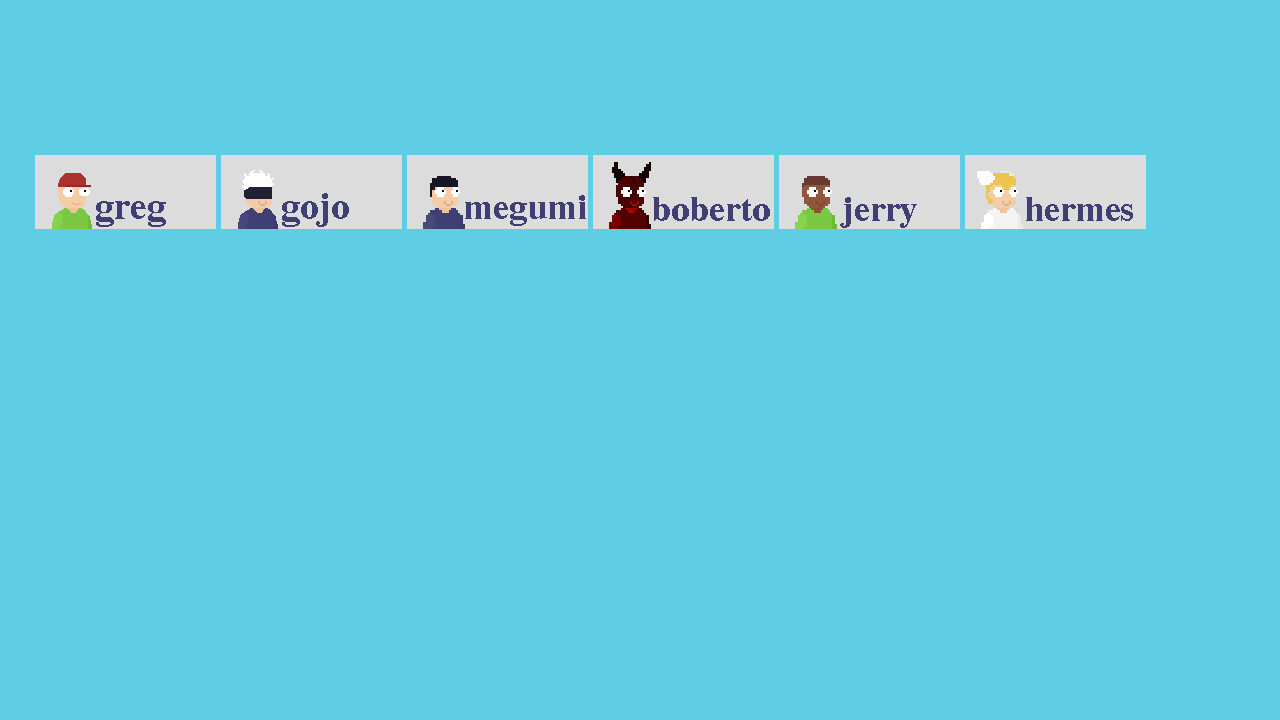
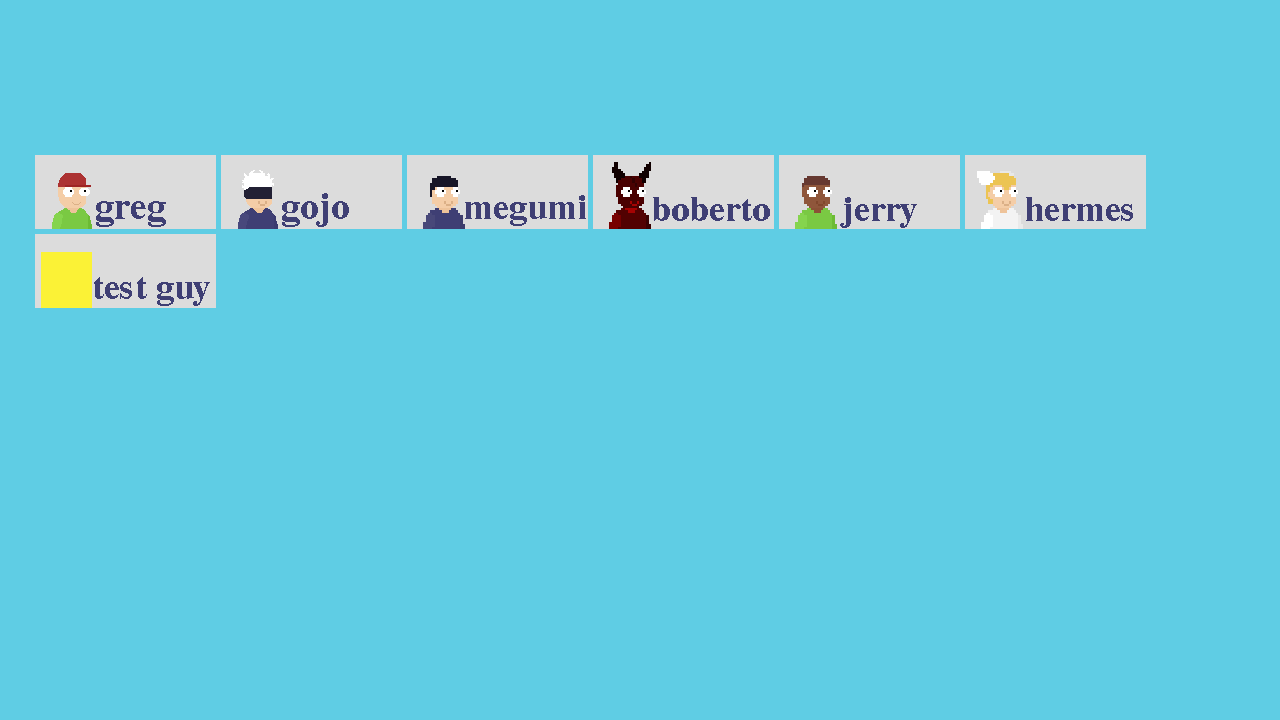
added back the cube guy

Changed region(s): [[0.0, 0.3056, 0.1875, 0.4278]]

diff --git a/players/player_info.go b/players/player_info.go
@@ -10,12 +10,13 @@ var Players map[string]Player
 
 func InitPlayer(spawn_point utils.Vec2) {
 	Players = map[string]Player{
-		"greg":    newPlayer(spawn_point, *textures.NewAnimatedTexture("./art/players/greg.png"), textures.NewTexture("./art/domains/simple_domain.png"), func(enemies []*enemyai.Enemy) { Player_Ref.simpleDomain(enemyai.Enemies_In_World) }, greg_attacks),
-		"gojo":    newPlayer(spawn_point, *textures.NewAnimatedTexture("./art/players/gojo.png"), textures.NewTexture("./art/domains/gojo_domain.png"), func(enemies []*enemyai.Enemy) { Player_Ref.gojoDomain(enemyai.Enemies_In_World) }, gojo_attacks),
-		"megumi":  newPlayer(spawn_point, *textures.NewAnimatedTexture("./art/players/megumi.png"), textures.NewTexture("./art/domains/megumi_domain.png"), func(enemies []*enemyai.Enemy) { Player_Ref.megumiDomain(enemyai.Enemies_In_World) }, megumi_attacks),
-		"boberto": newPlayer(spawn_point, *textures.NewAnimatedTexture("./art/players/boberto.png"), textures.NewTexture("./art/domains/boberto_domain.png"), func(enemies []*enemyai.Enemy) { Player_Ref.bobertoDomain(enemyai.Enemies_In_World) }, boberto_attacks),
-		"jerry":   newPlayer(spawn_point, *textures.NewAnimatedTexture("./art/players/jerry.png"), textures.NewTexture("./art/domains/simple_domain.png"), func(enemies []*enemyai.Enemy) { Player_Ref.simpleDomain(enemyai.Enemies_In_World) }, jerry_attacks),
-		"sukuna":  newPlayer(spawn_point, *textures.NewAnimatedTexture("./art/players/sukuna_playable.png"), textures.NewTexture("./art/domains/sukuna_domain.png"), func(enemies []*enemyai.Enemy) { Player_Ref.simpleDomain(enemyai.Enemies_In_World) }, sukuna_attacks),
-		"hermes":  newPlayer(spawn_point, *textures.NewAnimatedTexture("./art/players/hermes.png"), textures.NewTexture("./art/domains/simple_domain.png"), func(enemies []*enemyai.Enemy) { Player_Ref.simpleDomain(enemyai.Enemies_In_World) }, hermes_attacks),
+		"greg":        newPlayer(spawn_point, *textures.NewAnimatedTexture("./art/players/greg.png"), textures.NewTexture("./art/domains/simple_domain.png"), func(enemies []*enemyai.Enemy) { Player_Ref.simpleDomain(enemyai.Enemies_In_World) }, greg_attacks),
+		"gojo":        newPlayer(spawn_point, *textures.NewAnimatedTexture("./art/players/gojo.png"), textures.NewTexture("./art/domains/gojo_domain.png"), func(enemies []*enemyai.Enemy) { Player_Ref.gojoDomain(enemyai.Enemies_In_World) }, gojo_attacks),
+		"megumi":      newPlayer(spawn_point, *textures.NewAnimatedTexture("./art/players/megumi.png"), textures.NewTexture("./art/domains/megumi_domain.png"), func(enemies []*enemyai.Enemy) { Player_Ref.megumiDomain(enemyai.Enemies_In_World) }, megumi_attacks),
+		"boberto":     newPlayer(spawn_point, *textures.NewAnimatedTexture("./art/players/boberto.png"), textures.NewTexture("./art/domains/boberto_domain.png"), func(enemies []*enemyai.Enemy) { Player_Ref.bobertoDomain(enemyai.Enemies_In_World) }, boberto_attacks),
+		"jerry":       newPlayer(spawn_point, *textures.NewAnimatedTexture("./art/players/jerry.png"), textures.NewTexture("./art/domains/simple_domain.png"), func(enemies []*enemyai.Enemy) { Player_Ref.simpleDomain(enemyai.Enemies_In_World) }, jerry_attacks),
+		"sukuna":      newPlayer(spawn_point, *textures.NewAnimatedTexture("./art/players/sukuna_playable.png"), textures.NewTexture("./art/domains/sukuna_domain.png"), func(enemies []*enemyai.Enemy) { Player_Ref.simpleDomain(enemyai.Enemies_In_World) }, sukuna_attacks),
+		"hermes":      newPlayer(spawn_point, *textures.NewAnimatedTexture("./art/players/hermes.png"), textures.NewTexture("./art/domains/simple_domain.png"), func(enemies []*enemyai.Enemy) { Player_Ref.simpleDomain(enemyai.Enemies_In_World) }, hermes_attacks),
+		"test_player": newPlayer(spawn_point, *textures.NewAnimatedTexture("./art/players/test_player.png"), textures.NewTexture("./art/domains/simple_domain.png"), func(enemies []*enemyai.Enemy) { Player_Ref.simpleDomain(enemyai.Enemies_In_World) }, test_player_attacks),
 	}
 }

diff --git a/players/hermes.go b/players/hermes.go
@@ -8,7 +8,7 @@ import (
 
 func (p *Player) hermesJump() {
 	p.Vel.Y = -7
-	p.NewProjectile(p.Pos, utils.Vec2{X: 0, Y: 0}, 3, 0, 2, 3, textures.NewAnimatedTexture("./art/projectiles/hermes/cloud_jump.png"))
+	p.NewProjectile(utils.Vec2{X: p.Pos.X - 64, Y: p.Pos.Y + 32}, utils.Vec2{X: 0, Y: 0}, 10, 0, 1, 3, textures.NewAnimatedTexture("./art/projectiles/hermes/cloud_jump.png"))
 }
 
 func (p *Player) hermesTornado() {
@@ -16,7 +16,7 @@ func (p *Player) hermesTornado() {
 }
 
 func (player *Player) hermesWindBall() {
-	player.NewProjectile(utils.Vec2{X: player.Pos.X, Y: player.Pos.Y}, utils.Vec2{X: player.Pos.X + (player.Vel.X * 2) - utils.Mouse_X - camera.Cam.Offset.X + 640 + (float64(player.Img.GetTexture().Bounds().Dx())), Y: player.Pos.Y + (player.Vel.Y * 2) - utils.Mouse_Y - camera.Cam.Offset.Y + 320 + (float64(player.Img.GetTexture().Bounds().Dy()))}, 1, 10, 1, -1, textures.NewTexture("./art/projectiles/hermes/wind_ball.png"))
+	player.NewProjectile(utils.Vec2{X: player.Pos.X, Y: player.Pos.Y}, utils.Vec2{X: player.Pos.X + (player.Vel.X * 2) - utils.Mouse_X - camera.Cam.Offset.X + 640 + (float64(player.Img.GetTexture().Bounds().Dx())), Y: player.Pos.Y + (player.Vel.Y * 2) - utils.Mouse_Y - camera.Cam.Offset.Y + 320 + (float64(player.Img.GetTexture().Bounds().Dy()))}, 2, 10, 1, -1, textures.NewTexture("./art/projectiles/hermes/wind_ball.png"))
 }
 
 var hermes_attacks = []Attack{

diff --git a/players/test_player.go b/players/test_player.go
@@ -1,0 +1,26 @@
+package players
+
+import (
+	"jjb/camera"
+	"jjb/textures"
+	"jjb/utils"
+)
+
+func (player *Player) test_playerGlitchProjectile() {
+	player.NewProjectile(utils.Vec2{X: player.Pos.X, Y: player.Pos.Y}, utils.Vec2{X: player.Pos.X + (player.Vel.X * 2) - utils.Mouse_X - camera.Cam.Offset.X + 640 + (float64(player.Img.GetTexture().Bounds().Dx())), Y: player.Pos.Y + (player.Vel.Y * 2) - utils.Mouse_Y - camera.Cam.Offset.Y + 320 + (float64(player.Img.GetTexture().Bounds().Dy()))}, 25, 10, 1, -1, textures.NewTexture("./art/projectiles/test_player/glitch.png"))
+}
+
+func (player *Player) test_playerDeathBar() {
+	player.NewProjectile(utils.Vec2{X: player.Pos.X - 256, Y: player.Pos.Y - 512}, utils.Vec2{X: 0, Y: -1}, 1, 5, 30, 100, textures.NewTexture("./art/projectiles/test_player/death_bar.png"))
+}
+
+func (player *Player) test_playerTp() {
+	player.Pos.X += utils.Mouse_X - (1280 / 2)
+	player.Pos.Y += utils.Mouse_Y - (720 / 2)
+}
+
+var test_player_attacks = []Attack{
+	{Player_Ref.test_playerTp, 0, 3},
+	{Player_Ref.test_playerGlitchProjectile, 0, 20},
+	{Player_Ref.test_playerDeathBar, 0, 40},
+}

diff --git a/scenes/charecter_menu_scene.go b/scenes/charecter_menu_scene.go
@@ -21,7 +21,7 @@ func Charecter_Menu_Scene_Update() {
 	if ebiten.IsMouseButtonPressed(ebiten.MouseButton0) && !utils.Clicked {
 		if utils.Collide(utils.Vec2{X: utils.Mouse_X, Y: utils.Mouse_Y}, utils.Vec2{X: 1, Y: 1}, utils.Vec2{X: 35, Y: 155}, utils.Vec2{X: 181, Y: 74}) {
 			Current_Scene = 2
-			selected_player = "hermes"
+			selected_player = "greg"
 			Game_Scene.Setup()
 		} else if utils.Collide(utils.Vec2{X: utils.Mouse_X, Y: utils.Mouse_Y}, utils.Vec2{X: 1, Y: 1}, utils.Vec2{X: 221, Y: 155}, utils.Vec2{X: 181, Y: 74}) {
 			Current_Scene = 2
@@ -43,7 +43,12 @@ func Charecter_Menu_Scene_Update() {
 			Current_Scene = 2
 			selected_player = "hermes"
 			Game_Scene.Setup()
+		} else if utils.Collide(utils.Vec2{X: utils.Mouse_X, Y: utils.Mouse_Y}, utils.Vec2{X: 1, Y: 1}, utils.Vec2{X: 35, Y: 234}, utils.Vec2{X: 181, Y: 74}) {
+			Current_Scene = 2
+			selected_player = "test_player"
+			Game_Scene.Setup()
 		}
+
 		if ebiten.IsKeyPressed(ebiten.KeyS) && ebiten.IsKeyPressed(ebiten.KeyR) {
 			Current_Scene = 2
 			selected_player = "sukuna"
